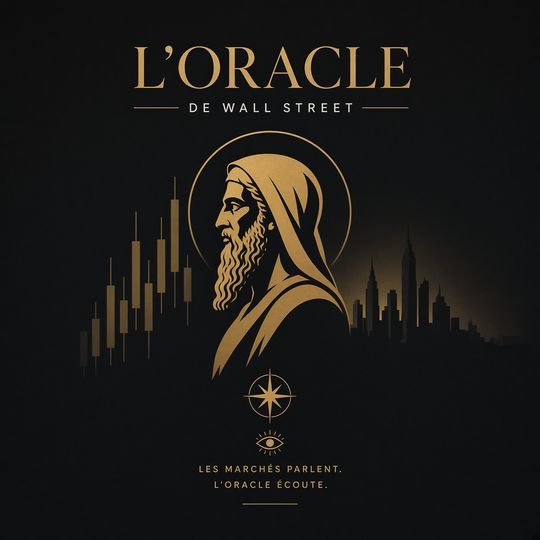
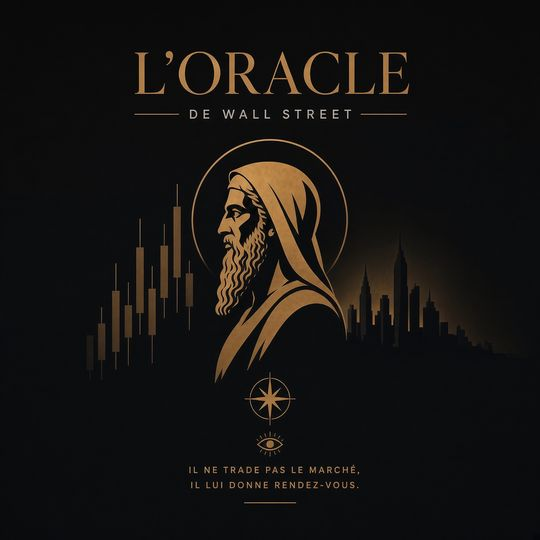
Nouvelle affiche de l'Oracle de Wall Street
L'affiche du premier titre est remplacée, en ses trois tailles (affiche,
carte, médaillon recadré sur son halo). Sa devise revient avec elle :
« Il ne trade pas le marché, il lui donne rendez-vous. »

Claude-Session: https://claude.ai/code/session_01KhzuTheQzZ6taEA8H6Km3D

Changed region(s): [[0.1481, 0.0593, 0.8889, 0.9481]]

diff --git a/mobile/src/features/club/__tests__/clubStandings.test.ts b/mobile/src/features/club/__tests__/clubStandings.test.ts
@@ -108,7 +108,10 @@ describe('classement du club', () => {
         ['toi', 7, null],
       ],
     );
-    assert.equal(titleOf(rows[0]!, rows)?.motto, 'Les marchés parlent. L’Oracle écoute.');
+    assert.equal(
+      titleOf(rows[0]!, rows)?.motto,
+      'Il ne trade pas le marché, il lui donne rendez-vous.',
+    );
     // Deux loups ex æquo : le titre de troisième reste vacant.
     const holders = (rank: number) =>
       titleHolders(

diff --git a/mobile/src/features/club/clubStandings.ts b/mobile/src/features/club/clubStandings.ts
@@ -85,7 +85,7 @@ export const CLUB_TITLES: readonly ClubTitle[] = [
     rank: 1,
     key: 'oracle',
     title: 'L’Oracle de Wall Street',
-    motto: 'Les marchés parlent. L’Oracle écoute.',
+    motto: 'Il ne trade pas le marché, il lui donne rendez-vous.',
   },
   {
     rank: 2,

diff --git a/mobile/README.md b/mobile/README.md
@@ -774,7 +774,7 @@ ou depuis toujours (`app/(tabs)/classement.tsx`) :
 
   | Rang | Titre | Devise |
   |---|---|---|
-  | I | L’Oracle de Wall Street | « Les marchés parlent. L’Oracle écoute. » |
+  | I | L’Oracle de Wall Street | « Il ne trade pas le marché, il lui donne rendez-vous. » |
   | II | Le Loup de Wall Street | « Il ne suit pas la tendance. La tendance le suit. » |
   | III | Le Chercheur en Pumpologie | « Chaque perte est une nouvelle donnée scientifique. » |
   | IV | L’Analyste de Boursorama | « Il peut aussi vous proposer une assurance vie. » |
